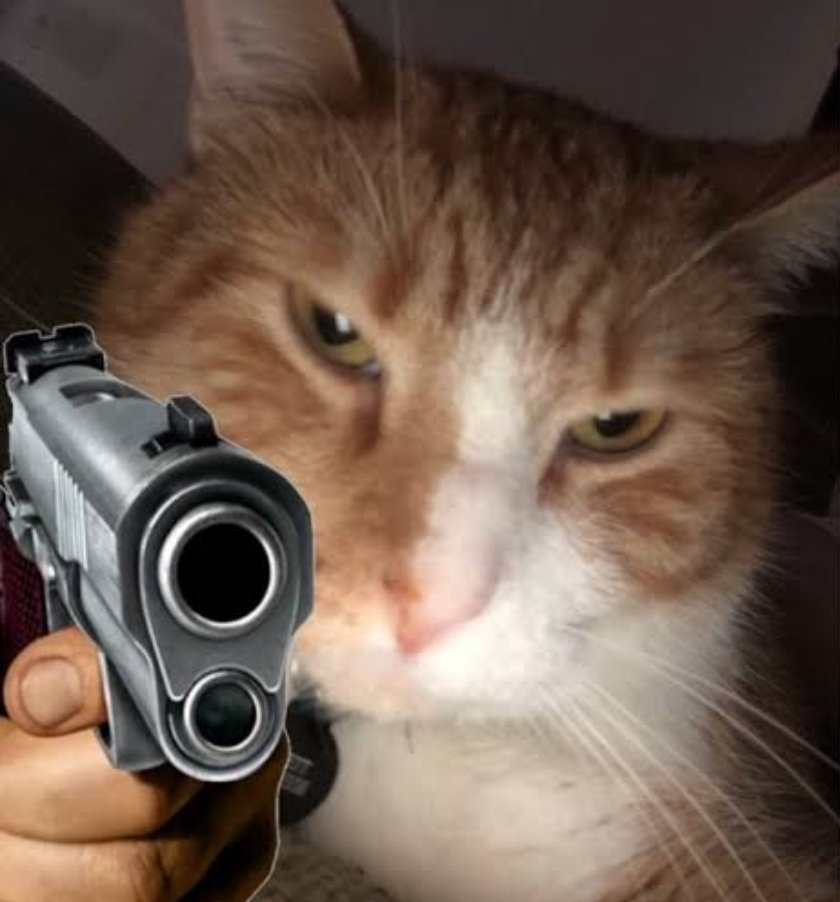
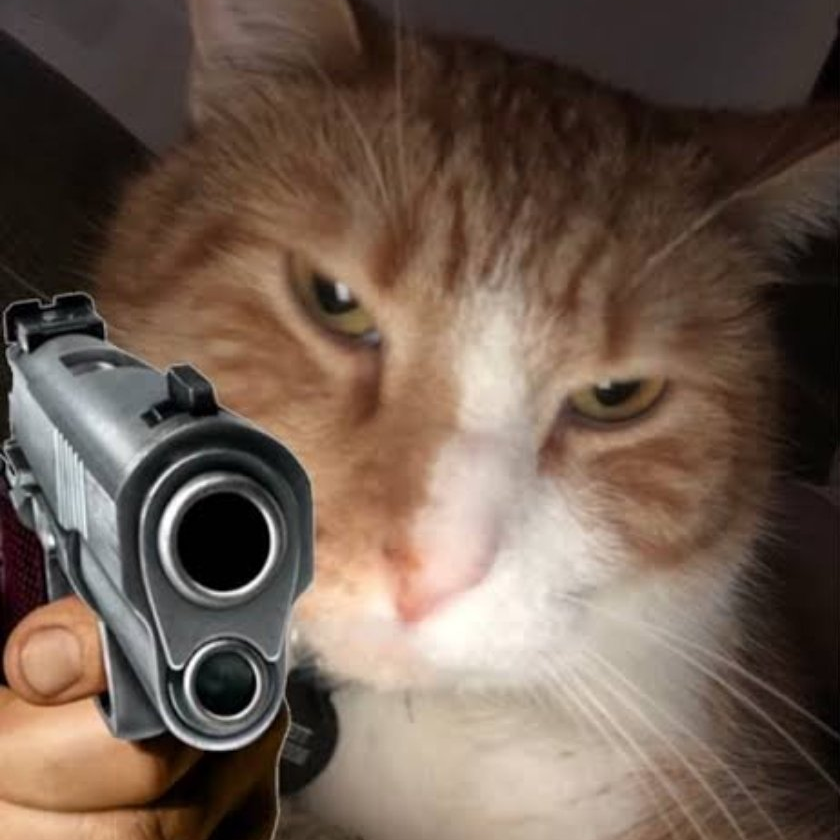
visual changes

diff --git a/index.html b/index.html
@@ -31,9 +31,10 @@ Even if the whole world is against you, I’ll be on your side.
 
 You have so many better things waiting for you, zebamma. Your future, your nutrition course, your fitness journey, all the things you want to become and all the places you still want to go. Don’t let this one chapter make you forget how much more there is to your story.
 
-And besides… pretty girls aren’t supposed to cry. ❤ --><font face="courier new" color="red" size="20"><b><center>REDACTED</center></b></font>
+And besides… pretty girls aren’t supposed to cry. ❤ -->
+<font face="Carmorant Garamond" color="beige" size="20"><b><center>REDACTED</center></b></font> 
 
-<center>I removed this on purpose. If you're seeing this, assume things aren't going good.</center> 
+<center><font face="inter" color="white" size="6">This was removed on purpose. <br> If you're seeing this, assume things aren't going good.</font></center> 
     </div>
 
     <img class="meme" src="image.png" alt="Cat meme">

diff --git a/style.css b/style.css
@@ -7,9 +7,10 @@ body {
 }
 
 .card {
-    max-width: 700px;
+    max-width: 1000px;
     margin: auto;
-    background: white;
+    /* white if you decide to change later */
+    background: black;  
     padding: 40px;
     border-radius: 20px;
     box-shadow: 0 5px 25px #e8b8c8;
@@ -26,10 +27,10 @@ h1, h2 {
 
 .meme {
     display: block;
-    width: 300px;
+    width: 200px;
     max-width: 100%;
     margin: 50px auto 30px;
-    border-radius: 12px;
+    border-radius: 0px;
 }
 
 h2 {
